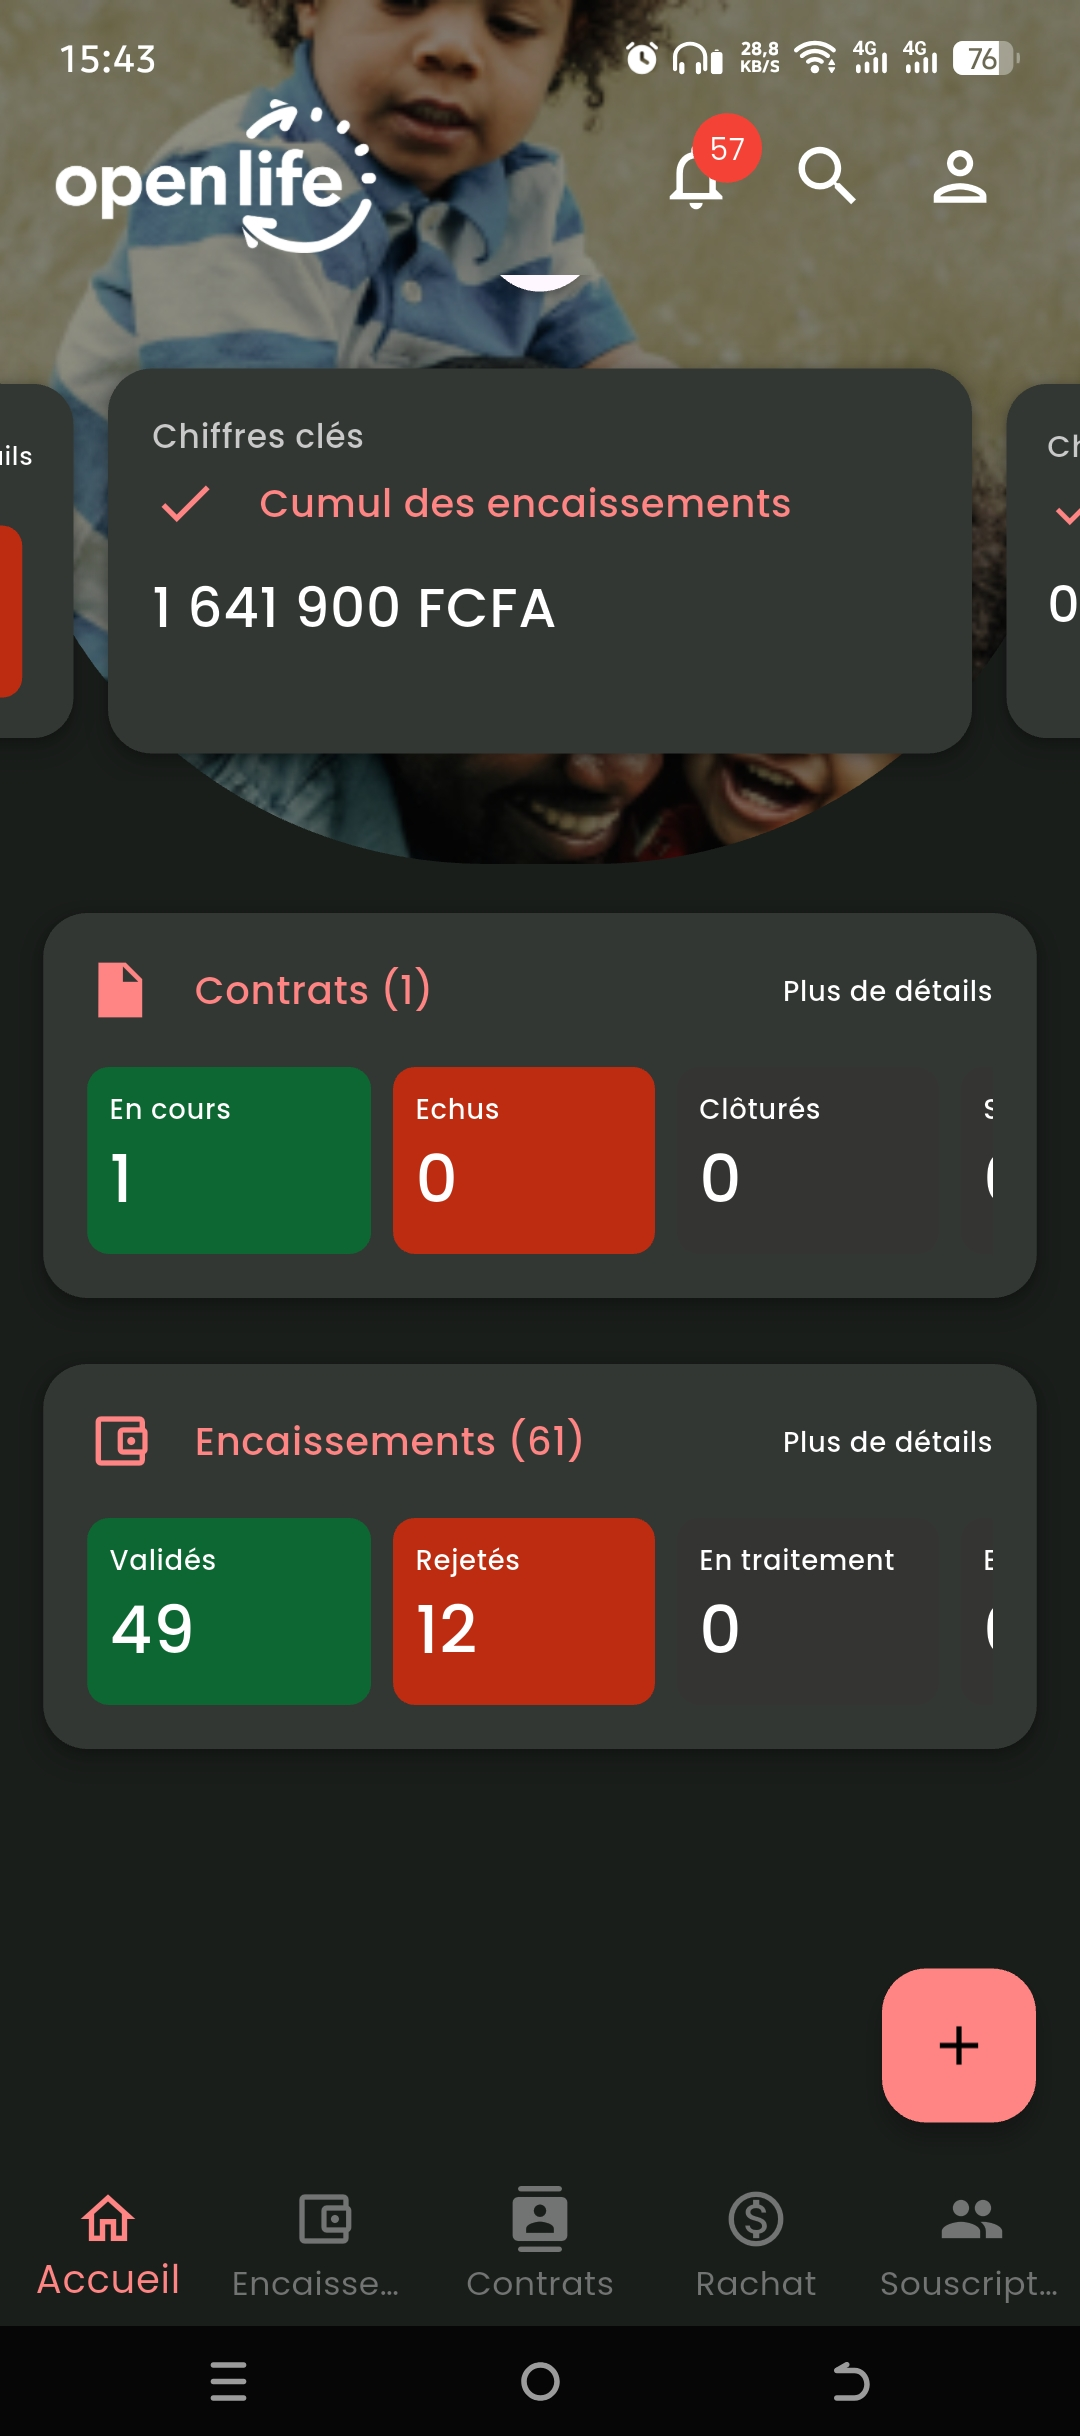
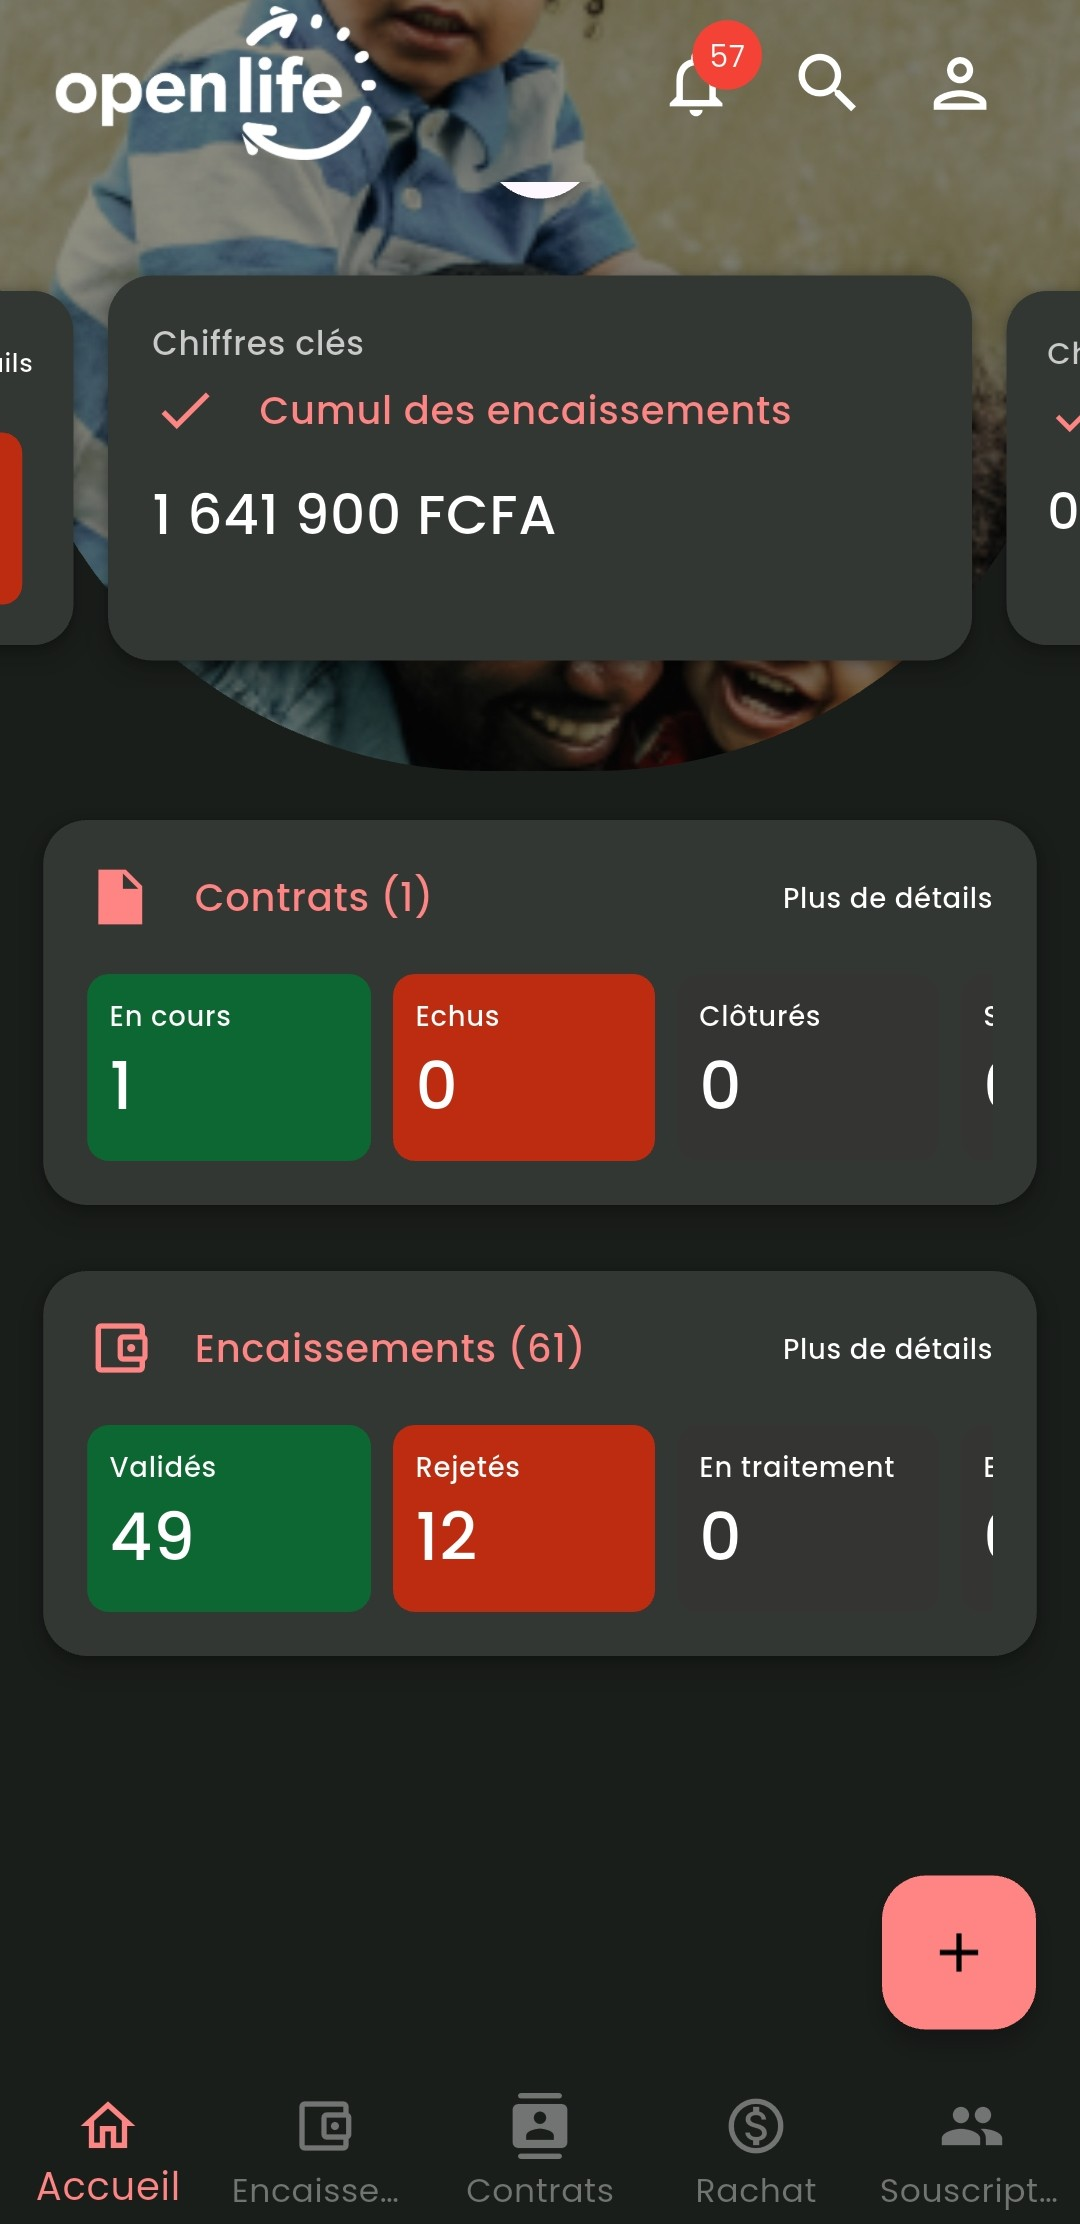
Add MockUp

diff --git a/components/sections/hero/HeroPhoneVisual.tsx b/components/sections/hero/HeroPhoneVisual.tsx
@@ -45,9 +45,9 @@ export function HeroPhoneVisual() {
     useReducedMotion(),
   );
 
-  const dashboardSrc = isDark
-    ? "/images/mobile-app/dashboard-dark.jpeg"
-    : "/images/mobile-app/dashboard-light.jpg";
+  const mockupSrc = isDark
+    ? "/images/mobile-app/mockup-hero-dark.png"
+    : "/images/mobile-app/mockup-hero-light.png";
 
   return (
     <div
@@ -91,56 +91,58 @@ export function HeroPhoneVisual() {
           absolute
           left-1/2 top-1/2
           z-20
-          h-[460px] w-[238px]
+          h-[540px] w-[497px]
           -translate-x-1/2
           -translate-y-1/2
-          rounded-[38px]
-          border-[var(--hero-phone-border)]
-          p-[7px]
-          shadow-[var(--hero-phone-shadow)]
-          sm:h-[600px]
-          sm:w-[310px]
-          sm:rounded-[44px]
-          lg:h-[650px]
-          lg:w-[336px]
+          sm:h-[680px]
+          sm:w-[625px]
+          lg:h-[760px]
+          lg:w-[700px]
         "
       >
-        <div
+        <motion.div
+          key={mockupSrc}
+          initial={
+            reduceMotion
+              ? false
+              : {
+                  opacity: 0.2,
+                }
+          }
+          animate={{
+            opacity: 1,
+          }}
+          transition={{
+            duration:
+              reduceMotion
+                ? 0
+                : 0.45,
+          }}
           className="
-            relative h-full w-full
-            overflow-hidden
-            rounded-[39px]
+            relative
+            h-full w-full
           "
         >
-          <motion.div
-            key={dashboardSrc}
-            initial={
-              reduceMotion
-                ? false
-                : { opacity: 0.2 }
+          <Image
+            src={mockupSrc}
+            alt={
+              content.hero
+                .phoneImageAlt
             }
-            animate={{ opacity: 1 }}
-            transition={{
-              duration:
-                reduceMotion
-                  ? 0
-                  : 0.45,
-            }}
-            className="absolute inset-0"
-          >
-            <Image
-              src={dashboardSrc}
-              alt={
-                content.hero
-                  .phoneImageAlt
-              }
-              fill
-              priority
-              // sizes="(max-width: 1023px) 310px, 336px"
-              // className="object-cover"
-            />
-          </motion.div>
-        </div>
+            fill
+            priority
+            sizes="
+              (max-width: 639px) 497px,
+              (max-width: 1023px) 625px,
+              700px
+            "
+            className="
+              object-contain
+              drop-shadow-[0_30px_45px_rgba(4,35,10,0.34)]
+              dark:drop-shadow-[0_34px_52px_rgba(0,0,0,0.52)]
+            "
+          />
+        </motion.div>
       </motion.div>
 
       {content.hero.floatingCards.map(
